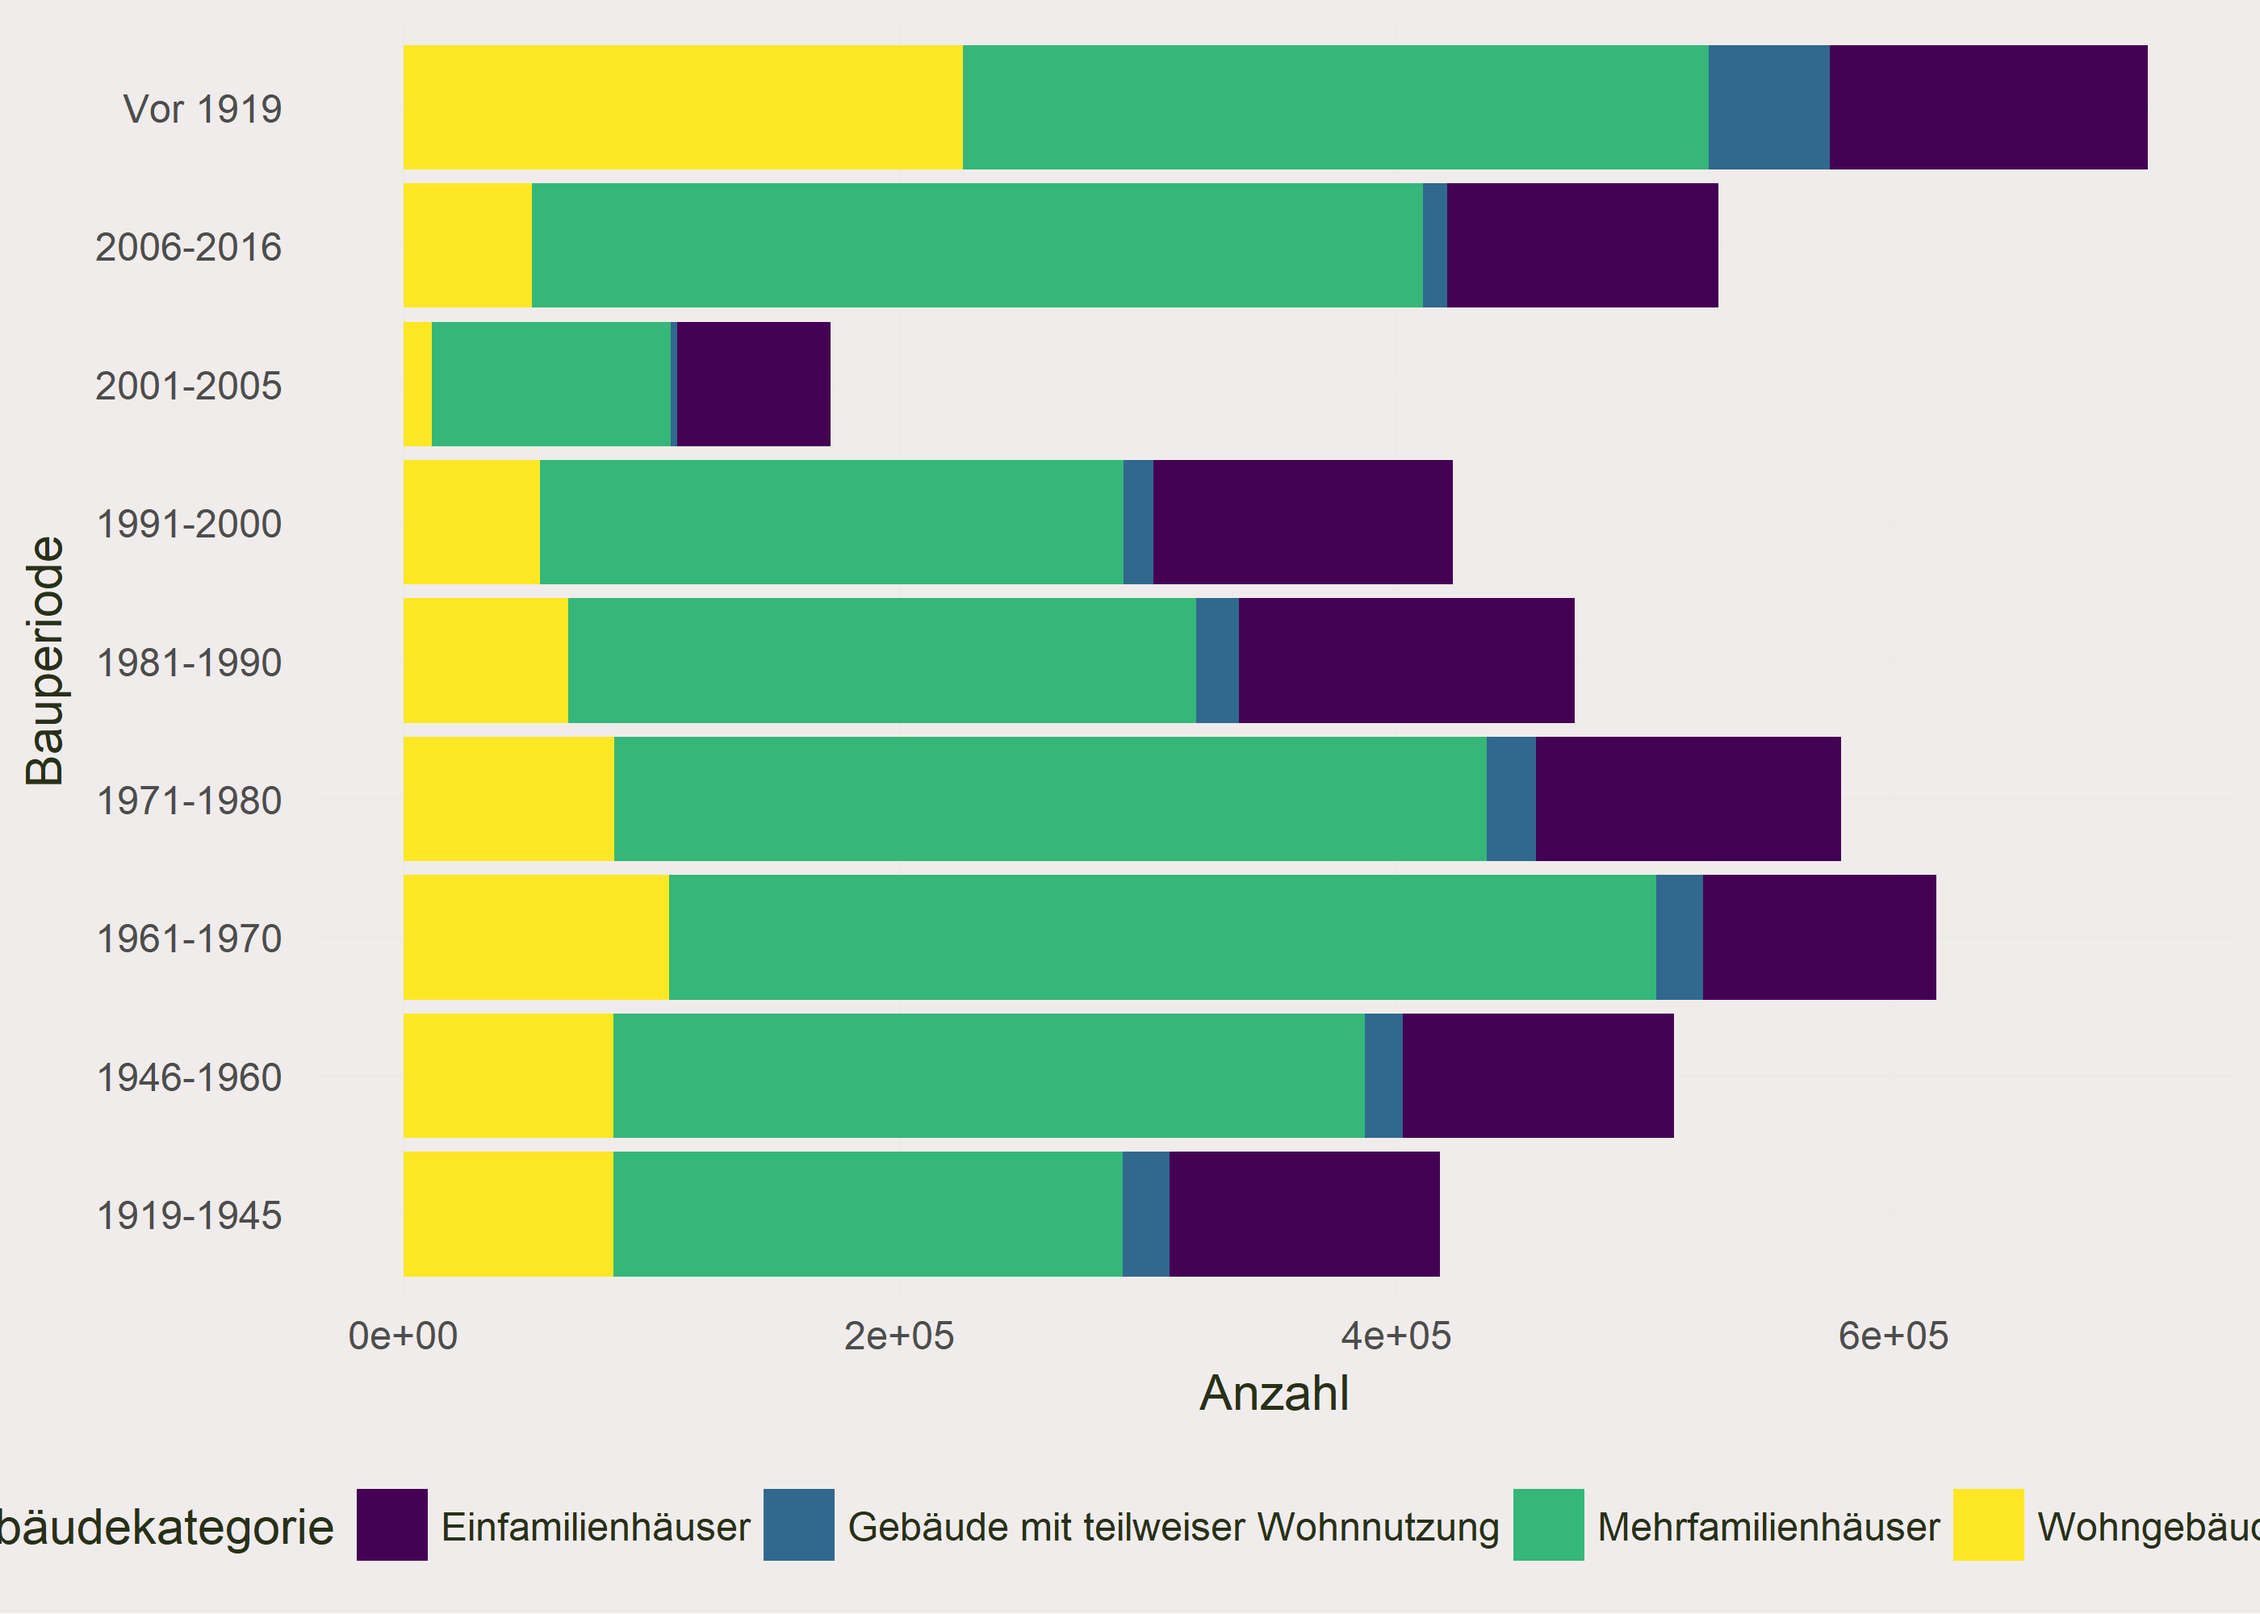
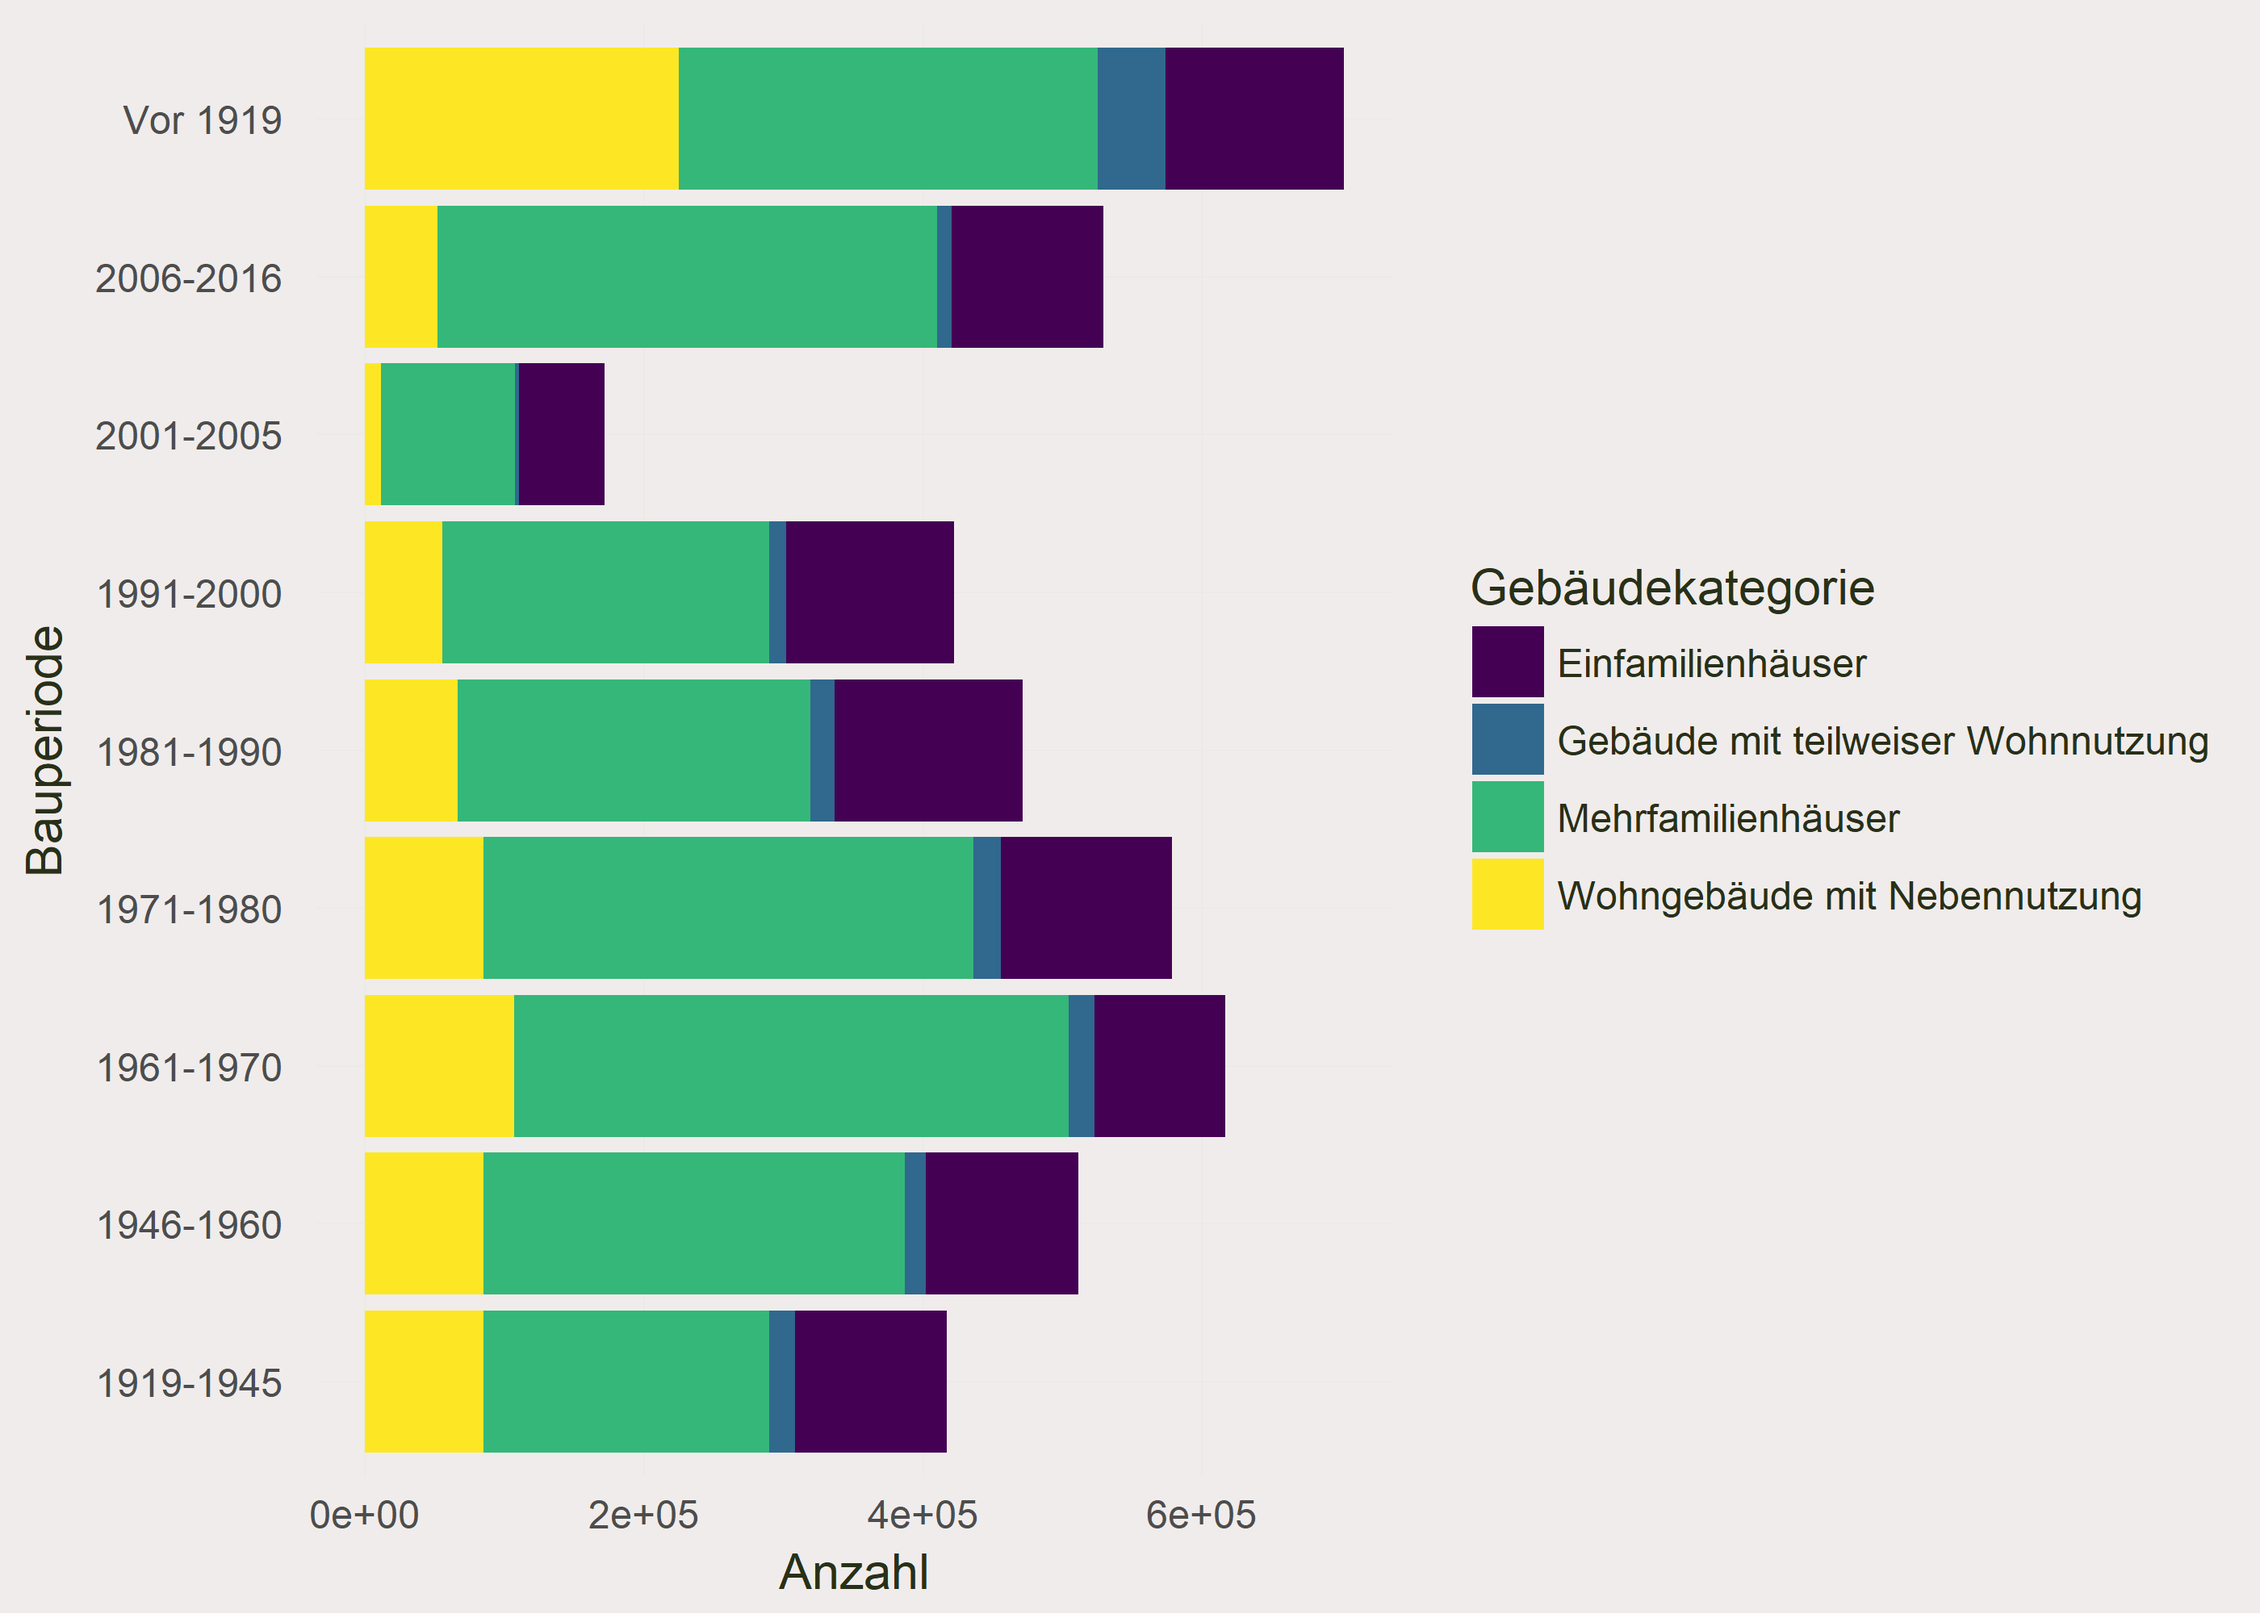
init

diff --git a/_posts/2018-04-08-housing-landscape.md b/_posts/2018-04-08-housing-landscape.md
@@ -1,1 +1,111 @@
-NA
+Analysis of Swiss Housing Landscape
+-----------------------------------
+
+Lorem ipsum dolor sit amet, no minimum complectitur vim, an enim mandamus complectitur mea. Enim noluisse appareat in est, harum graece at nec. Cu est commune pertinacia omittantur. Viris argumentum reprimique at vel, mazim putant accusata cu mel. Propriae sensibus abhorreant eu has, per id partem veritus civibus, solet phaedrum periculis nam no. Sit et idque inani populo. Quod aeque sadipscing cu cum, pro ex malorum alienum suscipit.
+
+Lorem ipsum dolor sit amet, no minimum complectitur vim, an enim mandamus complectitur mea. Enim noluisse appareat in est, harum graece at nec. Cu est commune pertinacia omittantur. Viris argumentum reprimique at vel, mazim putant accusata cu mel. Propriae sensibus abhorreant eu has, per id partem veritus civibus, solet phaedrum periculis nam no. Sit et idque inani populo. Quod aeque sadipscing cu cum, pro ex malorum alienum suscipit.
+
+``` r
+rm(list = ls())
+
+library(maptools)
+library(broom)
+library(viridis)
+library(raster)
+library(rgdal)
+library(rgeos)
+library(tidyverse)
+library(readxl)
+library(readr)
+library(magrittr)
+```
+
+Functions for later use
+-----------------------
+
+Lorem ipsum dolor sit amet, no minimum complectitur vim, an enim mandamus complectitur mea. Enim noluisse appareat in est, harum graece at nec. Cu est commune pertinacia omittantur. Viris argumentum reprimique at vel, mazim putant accusata cu mel. Propriae sensibus abhorreant eu has, per id partem veritus civibus, solet phaedrum periculis nam no. Sit et idque inani populo. Quod aeque sadipscing cu cum, pro ex malorum alienum suscipit.
+
+Lorem ipsum dolor sit amet, no minimum complectitur vim, an enim mandamus complectitur mea. Enim noluisse appareat in est, harum graece at nec. Cu est commune pertinacia omittantur. Viris argumentum reprimique at vel, mazim putant accusata cu mel. Propriae sensibus abhorreant eu has, per id partem veritus civibus, solet phaedrum periculis nam no. Sit et idque inani populo. Quod aeque sadipscing cu cum, pro ex malorum alienum suscipit.
+
+``` r
+clean_data <- function(df, year){
+  df <- df %>% select(1:3,
+                      colnames(.) %>%
+                        endsWith(year) %>%
+                        which
+                      )
+  colnames(df)[1:3] <- c("Kanton / Bezirk / Gemeinde",
+                        "Gebäudekategorie",
+                        "Wohnungsfläche")
+  colnames(df)[endsWith(colnames(df), year)] <- colnames(df)[endsWith(colnames(df), year)] %>% 
+    str_sub(start=1, end=-5)
+  colnames(df) <- str_replace_all(colnames(df), "\\.", " ")
+  
+  regx <- "^(\\.\\.\\.\\.\\.)"
+  
+  df %>% gather(Bauperiode, Anzahl, -(1:3)) %>% 
+    filter(`Kanton / Bezirk / Gemeinde` %>% str_detect(regx)) %>% 
+    mutate(Anzahl   = as.numeric(Anzahl),
+           Gemeinde = `Kanton / Bezirk / Gemeinde`,
+           id       = Gemeinde %>% str_extract("\\d+") %>% as.numeric(),
+           Gemeinde = Gemeinde %>% str_replace("\\.+\\d+\\s", "")) %>% 
+    select(-`Kanton / Bezirk / Gemeinde`)
+}
+
+theme_c <- function(...) {
+  theme_minimal() +
+    theme(
+      text = element_text(color = "#283018"),
+      # panel.grid.minor = element_line(color = "#ebebe5", size = 0.2),
+      panel.grid.major = element_line(color = "#ebebe5", size = 0.2),
+      panel.grid.minor = element_blank(),
+      plot.background = element_rect(fill = "#f0eceb", color = NA), 
+      panel.background = element_rect(fill = "#f0eceb", color = NA), 
+      legend.background = element_rect(fill = "#f0eceb", color = NA),
+      panel.border = element_blank(),
+      #legend.position = "bottom",
+      ...
+    )
+}
+```
+
+Getting the data
+----------------
+
+Lorem ipsum dolor sit amet, no minimum complectitur vim, an enim mandamus complectitur mea. Enim noluisse appareat in est, harum graece at nec. Cu est commune pertinacia omittantur. Viris argumentum reprimique at vel, mazim putant accusata cu mel. Propriae sensibus abhorreant eu has, per id partem veritus civibus, solet phaedrum periculis nam no. Sit et idque inani populo. Quod aeque sadipscing cu cum, pro ex malorum alienum suscipit.
+
+Lorem ipsum dolor sit amet, no minimum complectitur vim, an enim mandamus complectitur mea. Enim noluisse appareat in est, harum graece at nec. Cu est commune pertinacia omittantur. Viris argumentum reprimique at vel, mazim putant accusata cu mel. Propriae sensibus abhorreant eu has, per id partem veritus civibus, solet phaedrum periculis nam no. Sit et idque inani populo. Quod aeque sadipscing cu cum, pro ex malorum alienum suscipit.
+
+``` r
+df <- read_tsv("../_data/housing-landscape/wohnungen_2013-2016.csv",
+               skip=2, locale = locale(encoding = 'ISO-8859-1')) %>% 
+  clean_data("2016")
+
+df %>% head()
+```
+
+    ## # A tibble: 6 x 6
+    ##    Gebäudekategorie Wohnungsfläche Bauperiode Anzahl        Gemeinde    id
+    ##               <chr>          <chr>      <chr>  <dbl>           <chr> <dbl>
+    ## 1 Einfamilienhäuser         <30 m2  Vor 1919       0 Aeugst am Albis     1
+    ## 2 Einfamilienhäuser       30-49 m2  Vor 1919       0 Aeugst am Albis     1
+    ## 3 Einfamilienhäuser       50-69 m2  Vor 1919       5 Aeugst am Albis     1
+    ## 4 Einfamilienhäuser       70-99 m2  Vor 1919      14 Aeugst am Albis     1
+    ## 5 Einfamilienhäuser     100-149 m2  Vor 1919      19 Aeugst am Albis     1
+    ## 6 Einfamilienhäuser        150+ m2  Vor 1919      26 Aeugst am Albis     1
+
+Plotting
+--------
+
+Lorem ipsum dolor sit amet, no minimum complectitur vim, an enim mandamus complectitur mea. Enim noluisse appareat in est, harum graece at nec. Cu est commune pertinacia omittantur. Viris argumentum reprimique at vel, mazim putant accusata cu mel. Propriae sensibus abhorreant eu has, per id partem veritus civibus, solet phaedrum periculis nam no. Sit et idque inani populo. Quod aeque sadipscing cu cum, pro ex malorum alienum suscipit.
+
+``` r
+df %>% 
+  ggplot(aes(x=Bauperiode, y=Anzahl, fill=Gebäudekategorie)) +
+  geom_bar(stat="identity") +
+  coord_flip() +
+  theme_c() +
+  scale_fill_viridis(discrete=TRUE, direction = 1)
+```
+
+![]({{ "/assets/plots/bauart-1.png" | absolute_url }})
